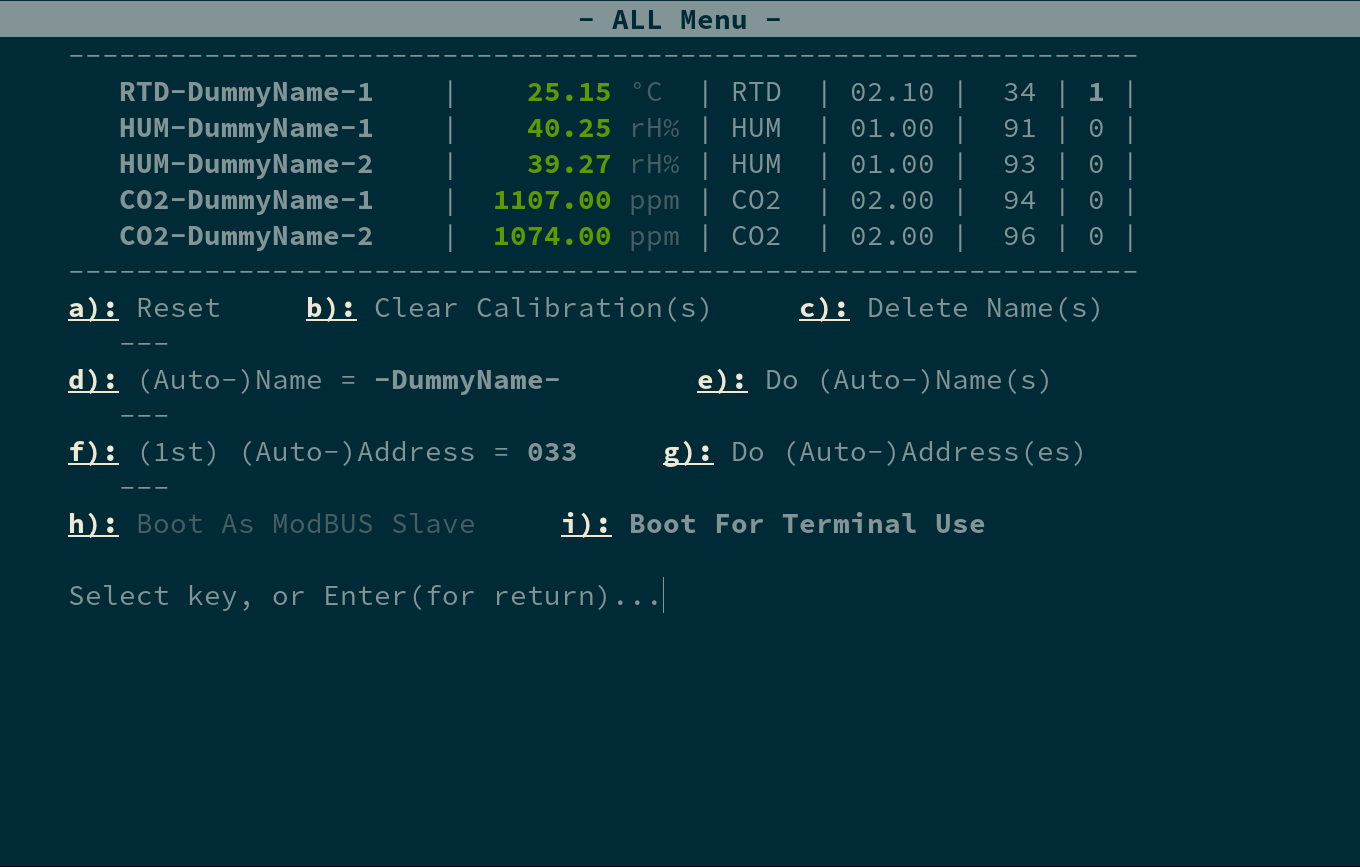
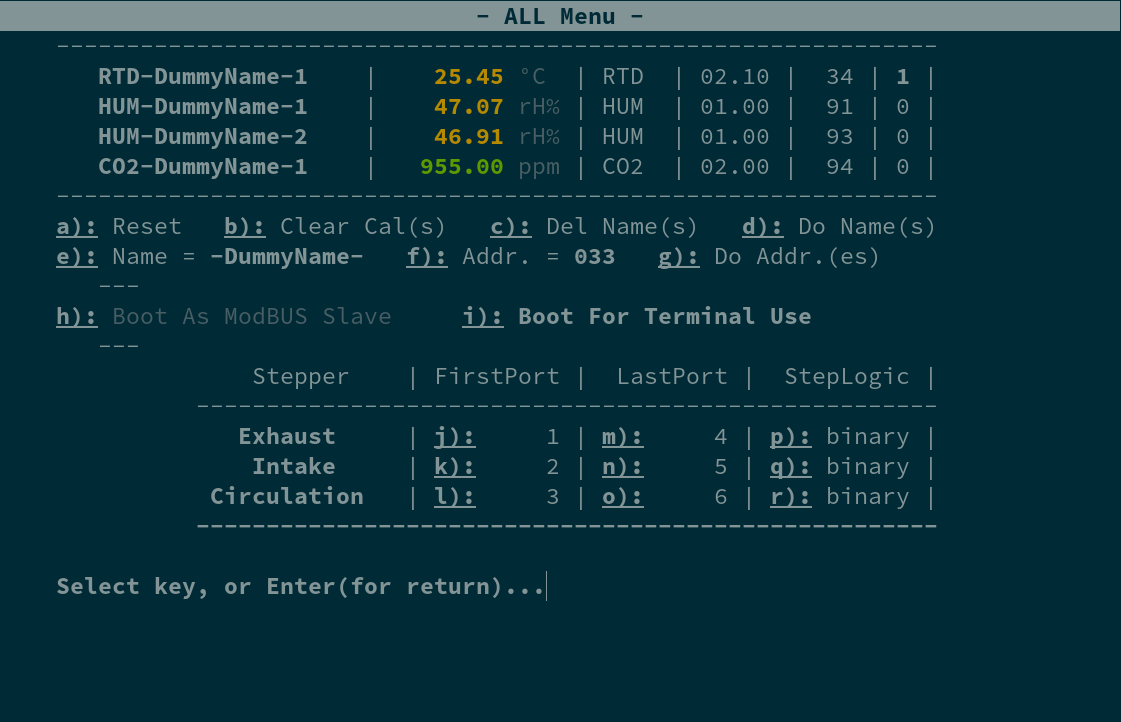
readme.md update

diff --git a/README.md b/README.md
@@ -57,7 +57,7 @@ Dim Color changed:
 
 <br>
 
-The *secondary* **main settings menu**. All probes/modules are selected.
+The *secondary* **main settings menu**. All probes/modules are selected. Individual port definition for the ventilators. 
 ![Secondary Main Screen](/images/Auswahl_005.png)
 
 <br>
@@ -77,17 +77,22 @@ During the calibration for a 1-Point calibration.
 <br>
 
 The **Set Values Menu**. Here you define the values for "(Too)Low" and "(Too)High".  
-*On a 328 you can define up to three independent settings*
+*On a 328 you can define up to four independent settings*
 ![Set Timings Menu](/images/Auswahl_010.png)
 
 <br>
 
-The **Set Timings & Steps Menu**. Here you define how the action-times are if a state is for at least the delay-time "TooLow", "Low", "High" or "TooHigh". You also define the ventilation-speed mapping here.   
-*On a 328 you can define up to three independent settings*
+The **Set Timings & Steps Menu**. Here you define how the action-times are if a state is for at least the delay-time "TooLow", "Low", "High" or "TooHigh". You also define the "fuzzy" ventilation-speed mapping here.   
+*On a 328 you can define up to four independent settings*
 ![Set Timings Menu](/images/Auswahl_011.png)
 
 <br>
 
-I can't declare this project actually as that useable like I do for <a href="https://github.com/PitWD/QuickTimer"> CannaClocky</a> or the <a href="https://github.com/PitWD/QuickWater"> CannaWatery</a>. The communication-part with the Atlas-Scientific modules and visualization of the read values is 100% usable - some prototypes are working perfect since a while. Just the actions and manual-mode isn't fully implemented/functioning yet...  
+The **Manual Menu**. Gives you full manual access, temporary or permanent, on all binary and "analog" action ports. A temporary set state will always fall back into the right automatic/permanent state after the temporary time expired. 
+![Set Timings Menu](/images/Auswahl_012.png)
+
+<br>
+
+I can't declare this project actually as that useable like I do for <a href="https://github.com/PitWD/QuickTimer"> CannaClocky</a> or the <a href="https://github.com/PitWD/QuickWater"> CannaWatery</a>. The communication-part with the Atlas-Scientific modules and visualization of the read values is 100% usable - some prototypes are working perfect since a while.Even the actions-ports and manual-mode is fully implemented now and seems to functioning fine...  
 Some planned extensions could break the actual structure of the internal EPROM - this will break the user made settings. There is actually no safe "fuse" to prevent that re-flashed µC's with a then broken EPROM will boot in a usable state.
 
